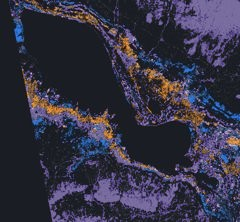
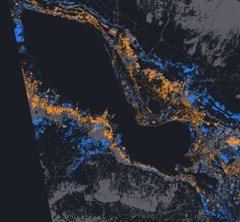
[Shai] "Cannot see" blank back to grey hatch (film, Home card, thumbnails, design doc)
Claude-Session: https://claude.ai/code/session_016Cb2twmVPDtf2bi2p5CpTr

diff --git a/site/landing.html b/site/landing.html
@@ -21,9 +21,9 @@
   #txt .k { font-size: 19px; font-weight: 700; letter-spacing: .14em; text-transform: uppercase; color: var(--o); margin-bottom: 14px; min-height: 1em; }
   #txt h1 { font-size: clamp(20px, 2.1vw, 32px); line-height: 1.3; margin: 0; font-weight: 600; }
   #txt h1 b { color: #ff9a2e; font-weight: 700; } #txt h1 b.bl { color: #4aa3ff; } #txt h1 b.rc { color: #ff6060; } #txt h1 b.wh { color: #fff; }
-  #txt h1 b.gy { color: #e6e2ff; padding: 0 4px; position: relative; isolation: isolate; }
+  #txt h1 b.gy { color: #d6d6e0; padding: 0 4px; position: relative; isolation: isolate; }
   #txt h1 b.gy::before { content: ''; position: absolute; inset: 0; z-index: -1; border-radius: 3px; opacity: 0;
-    background: repeating-linear-gradient(135deg,rgba(236,238,248,.35) 0 1.5px,transparent 1.5px 6px), rgba(70,52,120,.55);
+    background: repeating-linear-gradient(45deg,rgba(200,200,210,.35) 0 2px,transparent 2px 6px), rgba(60,60,70,.5);
     animation: gyin .9s ease forwards; animation-delay: var(--d, 0ms); }
   @keyframes gyin { to { opacity: 1; } }
   .ch { opacity: 0; animation: chIn .35s ease forwards; } @keyframes chIn { to { opacity: 1; } }
@@ -98,7 +98,7 @@
 <style>
   #lg { flex-direction: column; align-items: flex-start; gap: 6px; background: rgba(0,0,0,.45); padding: 10px 12px; border-radius: 8px; }
   #lg div { display: flex; align-items: center; gap: 8px; } #lg i { width: 16px; height: 12px; border-radius: 3px; display: inline-block; }
-  .big.o { color: #ff9a2e; } .big.b { color: #4aa3ff; }
+  #txt .big.o { color: #ff9a2e; } #txt .big.b { color: #4aa3ff; }
   .gq { color: #fff; font: 600 12px/1.25 Inter, system-ui, sans-serif; text-shadow: 0 1px 3px #000; white-space: nowrap; transform: translate(-6px, -6px); }
   .gq i { display: inline-block; width: 9px; height: 9px; border-radius: 50%; background: #ff9a2e; margin-right: 5px; box-shadow: 0 0 0 4px rgba(255,154,46,.25); }
   .gq .card { display: none; margin-top: 6px; background: rgba(10,12,16,.85); border: 1px solid rgba(255,255,255,.2); border-radius: 8px; padding: 8px 10px; }
@@ -115,7 +115,7 @@ map.attributionControl.setPrefix('');
 ['flyTo', 'flyToBounds', 'fitBounds', 'setView'].forEach(fn => { const o = map[fn].bind(map); map[fn] = (...a) => { try { return o(...a); } catch (e) { return map; } }; });   // never let a camera move break a scene
 const A = 'story/tonlesap/', B = L.latLngBounds([[12.3005, 103.5949], [13.2994, 104.7009]]);
 const img = f => L.imageOverlay(A + f, B, { opacity: 0, interactive: false }).addTo(map);
-const P = { photo: img('photo_2026-10-19.jpg'), excl: img('gfm_excluded_violet.png'), gfm: img('gfm_flood.png'), add: img('nisar_added.png') };
+const P = { photo: img('photo_2026-10-19.jpg'), excl: img('gfm_excluded.png'), gfm: img('gfm_flood.png'), add: img('nisar_added.png') };
 const box = L.rectangle(B, { color: '#ffffff', weight: 2.5, dashArray: '6 5', fill: false, opacity: 0, interactive: false }).addTo(map);
 let fast = false, mgen = 0;
 const many = (os, v, step = 0) => { const g = mgen; os.forEach((o, k) => (fast || !step) ? vis(o, v) : setTimeout(() => g === mgen && vis(o, v), k * step)); };
@@ -127,7 +127,7 @@ function flash(o) {                            // blink a newly shown layer so i
 }
 let on_ = [];
 const show = on => { for (const k in P) { const was = on_.includes(k), now = on.includes(k); vis(P[k], now ? 1 : 0); if (now && !was) flash(P[k]); } on_ = on.slice(); };
-const LG = { gfm: ['#2882ff', 'Flood seen by Sentinel-1 (GFM)'], excl: ['repeating-linear-gradient(135deg,rgba(236,238,248,.9) 0 1.5px,transparent 1.5px 4px),#46347a', 'GFM: "cannot see here"'],
+const LG = { gfm: ['#2882ff', 'Flood seen by Sentinel-1 (GFM)'], excl: ['repeating-linear-gradient(45deg,#c8c8d2 0 2px,#3c3c46 2px 6px)', 'GFM: "cannot see here"'],
              add: ['#ff9a2e', 'NISAR addition: water in the blank'] };
 const legend = ks => { $('lg').innerHTML = ks.map(k => `<div><i style="background:${LG[k][0]}"></i>${LG[k][1]}</div>`).join(''); $('lg').classList.toggle('in', ks.length > 0); };
 let sayGen = 0;
@@ -235,9 +235,9 @@ const scenes = [
       say('', H('We ran the same check on 16 flood sites we chose: 5 from recent flood alerts and 11 large seasonal wetlands, using NISAR\'s first months of data (June to October 2026). Each dot shows what NISAR added on that site\'s wettest pass.')); }],
   [7, () => { many(thumbs, 1, 250); legend(['gfm', 'excl', 'add']);
       say('', H('The biggest gaps are in flooded forests and wetlands: Tonle Sap, the Inner Niger Delta, the Mekong and the Congo basin. Elsewhere NISAR adds little.')); }],
-  [8, () => { many(thumbs, 0); legend([]); many(dots, 1);
-      say('16 floods', H('Across these 16 sites, taking each site\'s wettest NISAR pass, NISAR found <b>1,182 km²</b> of water in the official maps\' blanks: <b>43% more</b> than the 2,719 km² they showed. A sample, not a global total.')); }],
-  [6, () => { legend([]); $('tag').classList.remove('in'); say('Unseen Earth', H('Unseen Earth fills the blanks in the flood map, with open NISAR data every 12 days.')); }],
+  [7.5, () => { many(thumbs, 0); legend([]); many(dots, 1); $('tag').classList.remove('in');
+      say('16 flood sites · June–October 2026', BIG('+43%', 'more flood water', 'o') + H('than the official maps showed, on each site\'s wettest NISAR pass.'), 'A sample, not a global total.'); }],
+  [7, () => { say('Unseen Earth', BIG('1,234 km²', '', 'o') + H('of flood water hidden in the official maps\' blanks, found by NISAR.')); }],
   [0, () => { say(''); document.body.classList.add('out');  setTimeout(() => location.href = 'viewer/index.html#site=tonle-sap-flood-pulse-2026-83-8', 1200); }],
 ];
 let i = -1, tm = null, paused = false, t0 = 0, left = 0;

diff --git a/site/home.html b/site/home.html
@@ -47,7 +47,7 @@
   .viz .stage { position: relative; aspect-ratio: 749 / 694; background: #0b1016; }
   .viz .lyr { position: absolute; inset: 0; width: 100%; height: 100%; }
   .viz .photo { filter: grayscale(.6) brightness(.55); }
-  .viz .blank { --blank: repeating-linear-gradient(135deg, rgba(236,238,248,.85) 0 1.5px, transparent 1.5px 6px), rgba(70,52,120,.6);
+  .viz .blank { --blank: repeating-linear-gradient(45deg, rgba(200,200,210,.9) 0 2px, rgba(60,60,70,.6) 2px 6px);
     background: var(--blank); -webkit-mask: url('story/tonlesap/gfm_excluded_mask.png') 0 0 / 100% 100% no-repeat; mask: url('story/tonlesap/gfm_excluded_mask.png') 0 0 / 100% 100% no-repeat; }
   .viz .add { opacity: 0; transition: opacity .8s var(--ease); }
   .viz.nis .add { opacity: 1; }
@@ -159,7 +159,7 @@
         <p id="say"></p>
         <div class="key">
           <span><i style="background:#2882ff"></i>Flood in the official map (GFM)</span>
-          <span><i style="background:repeating-linear-gradient(135deg,rgba(236,238,248,.9) 0 1.5px,transparent 1.5px 4px),#46347a"></i>Official map: "cannot see here"</span>
+          <span><i style="background:repeating-linear-gradient(45deg,#c8c8d2 0 2px,#3c3c46 2px 6px)"></i>Official map: "cannot see here"</span>
           <span class="k-add" id="kadd" style="opacity:.3"><i style="background:#ff9a2e"></i>NISAR addition: water in the blank</span>
         </div>
       </figcaption>

diff --git a/docs/11-Design.md b/docs/11-Design.md
@@ -31,7 +31,7 @@ Use the tokens (`var(--…)`), not raw values.
 | `--water` | `#4aa3ff` | links in dialogs |
 | `--danger` / `--ok` | `#f85149` / `#3fb950` | alerts / checks |
 
-**Map data colours are not UI colours.** GFM flood blue `#2882ff`, the "cannot see" blank (white 135° lines on violet `rgba(70,52,120,.6)`) and NISAR orange `#ff9a2e`
+**Map data colours are not UI colours.** GFM flood blue `#2882ff`, the "cannot see" blank (light-grey 45° lines on dark grey `#c8c8d2` / `#3c3c46`) and NISAR orange `#ff9a2e`
 belong to the layers and their legends only. Legend names: "Flood in the official map (GFM)", "cannot see here", "NISAR addition: water in the blank". Don't use orange for buttons or headings, so NISAR's water stands out.
 
 ## Space and shape
